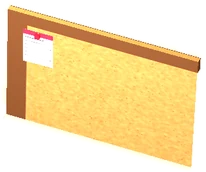
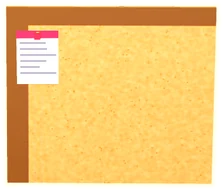
Area 3: long indoor room, full-screen inside camera, Kenney kit flat colours; all 10 build pictures, stickers and story slides re-rendered [preview]
Claude-Session: https://claude.ai/code/session_01CVrr8RsgHUV3DLhhsbspGb

diff --git a/docs/plans.md b/docs/plans.md
@@ -30,9 +30,11 @@ strips above/below the 390x844 stage).
   9 Ready Orders Corner (packed parcels tagged for other towns -> "light up more towns")
   Order board fills with one slip per build. Look (done 21 Nov): bright and colourful room -
   white tube light, light cream walls + sky-blue band, light cream/red tiles, brighter doors.
-  Camera (done 21 Nov, his reference home screen): ONE picture, dollhouse corner view from the front right,
-  ~45 deg down, narrow lens fov 38, pulled back. Room square-ish 5.6 x 5.6 m, floor stops at the front, right wall
-  cut to the blue band, walls capped at the ceiling. Tall things on the back/left walls, low things in front.
+  Camera + look (done 21 Nov, his indoor reference video + Kenney kit he gave): ONE full-screen picture from INSIDE a
+  long narrow room (4.4 x 7 m), camera near the front at 3.8 m looking down the room; floor and walls fill the
+  whole screen (no beige). Kenney Furniture Kit (art/a3/kit, CC0) + KIT_LOOK in backroom.gd = flat matching colours,
+  no photo textures, soft light. Left wall 3 racks, right wall gift shelf + fire corner, back wall bill desk/window/
+  phone desk/board/door, centre packing table, front parcels + cycle.
 - Story links (agreed 21 Nov): notebook step 3 stays "Light up more towns"; Area 3 = the first steps to it.
   Start = 3 slides (area_start.gd, start_area = 3, art/story3): 1 notebook, steps 1-2 ticked, step 3 gets gold line;
   2 the man opens the door from the shop into the dusty back store room; 3 in the mess, the man: "First, get GHILLI
@@ -40,7 +42,7 @@ strips above/below the 390x844 stage).
   End: sales book up, Madurai letter, "Madurai" written under step 3 in the notebook, NEXT card.
 - 3D room: scripts/street/backroom.gd (Backroom, TASKS + skip_to), rendered by tools/pic/a3_pic.gd; textures
   tools/a3tex.py -> art/a3. 9 builds made 21 Nov (builds only, no levels yet): ONE picture a3p0 holds all 9
-  (render: a3_pic.gd --w=1620 --h=3507 --p=6.85,17.8,12.6 --l=-0.25,2.2,-3.0 --fov=38 --steps=0..9 --out=/tmp/pics/a3p0, then
+  (render: a3_pic.gd --w=1620 --h=3507 --ceil=1 --p=0.3,3.8,5.5 --l=0.05,0.3,-3.0 --fov=58 --steps=0..9 --out=/tmp/pics/a3p0, then
   make_pics.py /tmp/pics godot 3) -> street/pics/a3_p0*.webp + a3.json (~0.6 MB). NOT wired into the game yet
   (pic_street set_area only knows 2; levels 61-80, order send-outs and the area end still to do).
 - Area 3 end: sales book going up + letter "Open a shop in Madurai?" -> Area 4 = second shop in Madurai.
